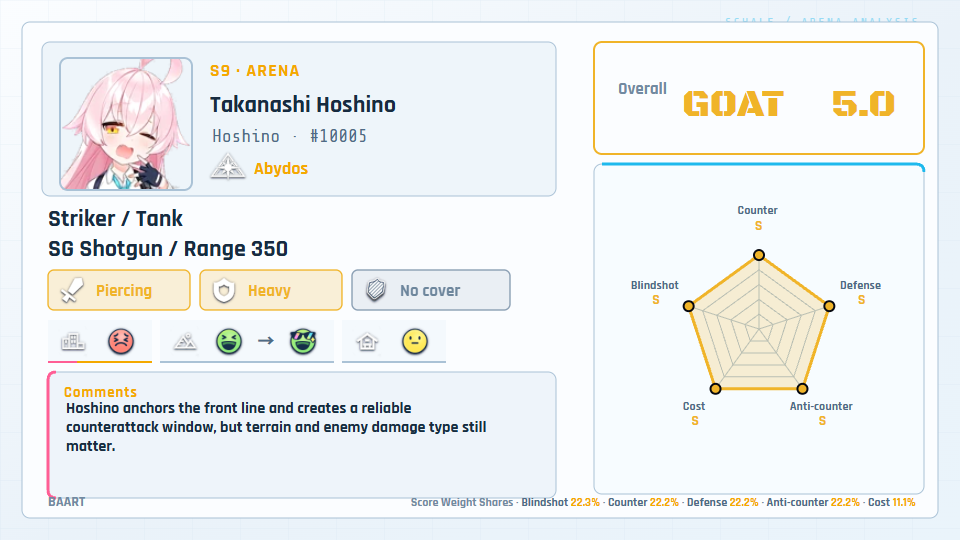
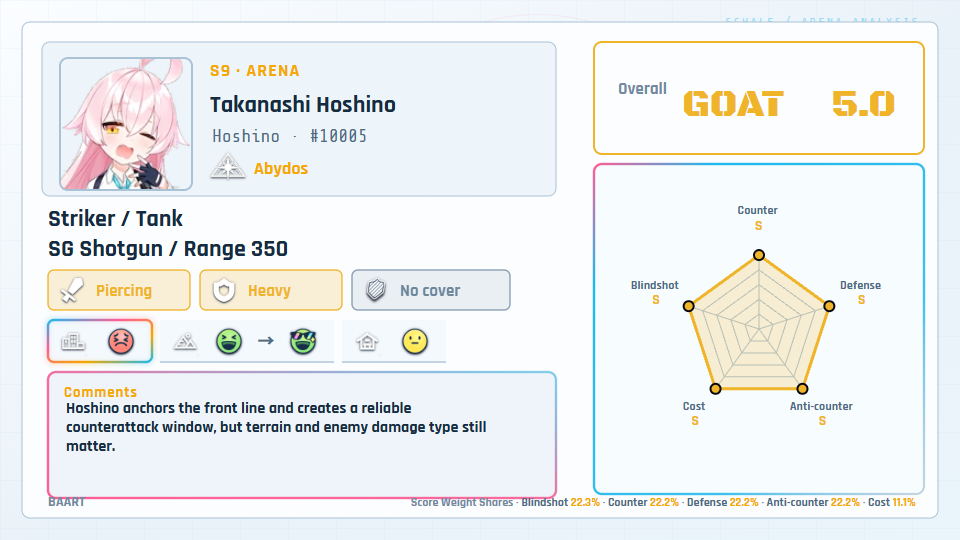
style: refine unified arena output visuals
Align the full static card to the canonical Remotion geometry, remove the static portrait veil, and share rounded cyan-pink panel accents and academy motifs across compact, full, and video outputs.

Add the deterministic active-terrain perimeter highlight, preserve flat inactive terrain facts, improve footnote safe-area placement, expand visual assertions, and regenerate bilingual README examples.

Verified with 63 tests, Vite build, Remotion composition discovery, MP4 and native PNG smoke renders, and bilingual light/dark comparison matrices.

Changed region(s): [[0.0312, 0.4444, 0.9062, 0.9185], [0.5938, 0.2963, 0.9688, 0.6519], [0.0625, 0.9185, 0.5625, 0.9481]]

diff --git a/src/export/cardSvg.js b/src/export/cardSvg.js
@@ -2,7 +2,7 @@ import { localeFor, t } from "../utils/i18n.js";
 import { createRadarRenderModel } from "../utils/radarRenderModel.js";
 import { fitStaticExportText } from "../utils/exportText.js";
 import { createStudentRatingPresentation } from "../utils/presentationModel.js";
-import { outputTheme } from "../utils/outputVisualTokens.js";
+import { outputTheme, scaleFullOutputLayout } from "../utils/outputVisualTokens.js";
 import { CARD_DIMENSIONS as CARD } from "./exportPipeline.js";
 
 function esc(value) {
@@ -43,8 +43,7 @@ function noteBlock(text, x, y, width, height, uiLanguage, p, options = {}) {
   return `
   <g>
     <clipPath id="${clipId}"><rect x="${x + paddingX}" y="${y + paddingTop - fit.fontSize}" width="${textWidth}" height="${textHeight + fit.fontSize}"/></clipPath>
-    <rect x="${x}" y="${y}" width="${width}" height="${height}" rx="8" fill="${p.card}" fill-opacity="${options.opacity || p.cardOpacity || "0.76"}" stroke="${p.stroke}"/>
-    <path d="M ${x + 8} ${y} Q ${x} ${y} ${x} ${y + 8} V ${y + height - 8} Q ${x} ${y + height} ${x + 8} ${y + height}" fill="none" stroke="${p.pink}" stroke-width="3"/>
+    ${accentPanelRect(x, y, width, height, p, { fill: p.card, opacity: options.opacity || p.cardOpacity || "0.76", accent: "pink" })}
     ${options.hideLabel ? "" : `<text x="${x + 16}" y="${labelY}" fill="${p.gold}" font-size="${options.labelSize || 17}" font-weight="900" letter-spacing=".06em">${esc(label)}</text>`}
     <text clip-path="url(#${clipId})" x="${x + paddingX}" y="${textY}" fill="${p.text}" font-size="${fit.fontSize}" font-weight="700">
       ${fit.lines.map((line, i) => `<tspan x="${x + paddingX}" dy="${i === 0 ? 0 : fit.lineGap}">${esc(line)}</tspan>`).join("")}
@@ -78,6 +77,13 @@ function schoolMetaSvg(presentation, x, y, p, options = {}) {
 
 function panelRect(x, y, width, height, p, options = {}) {
   return `<rect x="${x}" y="${y}" width="${width}" height="${height}" rx="${options.rx || 8}" fill="${options.fill || p.card}" fill-opacity="${options.opacity || p.cardOpacity || "0.76"}" stroke="${options.stroke || p.stroke}" ${options.strokeWidth ? `stroke-width="${options.strokeWidth}"` : ""}/>`;
+}
+
+function accentPanelRect(x, y, width, height, p, options = {}) {
+  const rx = options.rx || 8;
+  const gradient = options.accent === "pink" ? "edgePink" : "edgeCyan";
+  return `${panelRect(x, y, width, height, p, options)}
+    <rect x="${x}" y="${y}" width="${width}" height="${height}" rx="${rx}" fill="none" stroke="url(#${gradient})" stroke-width="${options.accentWidth || 2.4}"/>`;
 }
 
 function overallPanelSvg(presentation, x, y, width, height, p, options = {}) {
@@ -133,6 +139,23 @@ function defs(p) {
       <stop offset="0" stop-color="#172033"/>
       <stop offset="1" stop-color="#0b1020"/>
     </linearGradient>
+    <linearGradient id="edgeCyan" x1="0%" y1="0%" x2="100%" y2="100%">
+      <stop offset="0" stop-color="${p.pink}"/>
+      <stop offset="0.18" stop-color="${p.cyan}"/>
+      <stop offset="0.7" stop-color="${p.cyan}" stop-opacity="0.82"/>
+      <stop offset="1" stop-color="${p.stroke}" stop-opacity="0.32"/>
+    </linearGradient>
+    <linearGradient id="edgePink" x1="0%" y1="100%" x2="100%" y2="0%">
+      <stop offset="0" stop-color="${p.pink}"/>
+      <stop offset="0.48" stop-color="${p.pink}" stop-opacity="0.9"/>
+      <stop offset="1" stop-color="${p.cyan}" stop-opacity="0.42"/>
+    </linearGradient>
+    <linearGradient id="terrainSpectrum" x1="0%" y1="0%" x2="100%" y2="100%">
+      <stop offset="0" stop-color="${p.cyan}"/>
+      <stop offset="0.34" stop-color="${p.pink}"/>
+      <stop offset="0.68" stop-color="${p.gold}"/>
+      <stop offset="1" stop-color="${p.cyan}"/>
+    </linearGradient>
     <pattern id="academyGrid" width="48" height="48" patternUnits="userSpaceOnUse"><path d="M 48 0 L 0 0 0 48" fill="none" stroke="${p.grid}" stroke-width="1"/></pattern>
     <filter id="soft" x="-20%" y="-20%" width="140%" height="140%">
       <feDropShadow dx="0" dy="12" stdDeviation="14" flood-color="${p.shadow}" flood-opacity="0.22"/>
@@ -145,22 +168,26 @@ function defs(p) {
       <feDropShadow dx="0" dy="1" stdDeviation="0.8" flood-color="#ffffff" flood-opacity="0.72"/>
       <feDropShadow dx="0" dy="0" stdDeviation="1.3" flood-color="#7dd3fc" flood-opacity="0.32"/>
     </filter>
+    <filter id="edgeGlow" x="-30%" y="-40%" width="160%" height="180%">
+      <feGaussianBlur stdDeviation="2.4"/>
+    </filter>
   </defs>`;
 }
 
 function backgroundDecor(width, height, p) {
   const cx = width * 0.56;
-  const cy = height * 0.45;
-  const radius = height * 0.29;
+  const cy = height * 0.394;
+  const radius = height * 0.282;
   return `
   <rect width="${width}" height="${height}" fill="url(#academyGrid)" opacity="0.24"/>
   <g fill="none" stroke="${p.cyan}" opacity="0.13">
     <circle cx="${cx}" cy="${cy}" r="${radius}" stroke-width="2"/>
-    <circle cx="${cx}" cy="${cy}" r="${radius + height * 0.045}" stroke-width="1"/>
+    <circle cx="${cx}" cy="${cy}" r="${radius + height * 0.031}" stroke-width="1"/>
+    <circle cx="${cx}" cy="${cy}" r="${radius + height * 0.085}" stroke="${p.pink}" stroke-width="1" opacity="0.72"/>
     <line x1="${cx - radius - 30}" y1="${cy}" x2="${cx + radius + 30}" y2="${cy}"/>
     <line x1="${cx}" y1="${cy - radius - 30}" x2="${cx}" y2="${cy + radius + 30}"/>
   </g>
-  <path d="M ${width - 180} 24 H ${width - 40} V 78" fill="none" stroke="${p.cyan}" stroke-width="2" opacity="0.42"/>
+  <path d="M ${width - 180} 48 H ${width - 40} V 92" fill="none" stroke="${p.cyan}" stroke-width="2" opacity="0.42"/>
   <path d="M 26 ${height - 90} V ${height - 26} H 170" fill="none" stroke="${p.pink}" stroke-width="2" opacity="0.34"/>
   <text x="${width - 40}" y="26" text-anchor="end" fill="${p.cyan}" opacity="0.42" font-family="Share Tech Mono, monospace" font-size="12" letter-spacing="2">SCHALE / ARENA ANALYSIS</text>`;
 }
@@ -226,6 +253,7 @@ ${backgroundDecor(width, height, p)}
 function buildFullSVG(student, ratings, options) {
   const { width, height, radar } = CARD.full;
   const p = palette(options.theme);
+  const layout = scaleFullOutputLayout(width);
   const presentation = createStudentRatingPresentation({ student, ratings, language: options.uiLanguage, activeSeason: options.season });
   const portraitUrl = presentation.identity.portraitUrl;
   const displayName = presentation.identity.displayName;
@@ -240,24 +268,23 @@ ${commonStyles(p, options.fontCss)}
 <rect width="${width}" height="${height}" fill="url(#bg)"/>
 ${backgroundDecor(width, height, p)}
 <g class="ui">
-  <image href="${portraitUrl}" x="290" y="24" width="700" height="${height - 48}" preserveAspectRatio="xMidYMid meet" opacity="0.58"/>
+  <image href="${portraitUrl}" x="${layout.portrait.x}" y="${layout.portrait.top}" width="${layout.portrait.width}" height="${height - layout.portrait.top - layout.portrait.bottom}" preserveAspectRatio="xMidYMid meet" opacity="1"/>
 
-  <text x="48" y="58" fill="#f0b429" font-size="23" font-weight="900" letter-spacing=".07em">${esc(options.arenaSeason || "")} · ARENA GUIDE</text>
-  <text x="48" y="122" fill="${p.text}" font-size="${titleSize}" font-weight="900" xml:space="preserve">${esc(displayName)}</text>
-  <text x="50" y="160" class="sub mono">${esc(presentation.identity.developerName)} · #${presentation.identity.id}</text>
-  ${schoolMetaSvg(presentation, 48, 202, p, { fontSize: 34, iconSize: 58, maxChars: presentation.locale === "en" ? 18 : 12 })}
+  <text x="48" y="52" fill="${p.gold}" font-size="21" font-weight="900" letter-spacing=".07em">${esc(options.arenaSeason || "")} · ARENA GUIDE</text>
+  <text x="48" y="110" fill="${p.text}" font-size="${Math.min(titleSize, 54)}" font-weight="900" xml:space="preserve">${esc(displayName)}</text>
+  <text x="50" y="148" class="sub mono">${esc(presentation.identity.developerName)} · #${presentation.identity.id}</text>
+  ${schoolMetaSvg(presentation, 48, 184, p, { fontSize: 32, iconSize: 56, maxChars: presentation.locale === "en" ? 18 : 12 })}
 
-  ${panelRect(48, 228, 514, 144, p, { fill: p.card, opacity: "0.82" })}
-  <text x="66" y="265" class="value" font-size="30">${esc(trimText(presentation.role.summary, presentation.locale === "en" ? 34 : 28))}</text>
-  <text x="66" y="304" class="value" font-size="25">${esc(trimText(presentation.weapon.summary, presentation.locale === "en" ? 44 : 34))}</text>
-  ${typeChips(presentation, 66, 324, p, { width: 150, height: 42, fontSize: 18, iconSize: 26, gap: 10 })}
-  ${coverMark(presentation, 386, 324, p, { width: 158, height: 42, fontSize: 18, iconSize: 26 })}
-  ${terrainStrip(presentation, 48, 386, p, { compactWidth: 124, upgradeWidth: 170, height: 54, iconSize: 36, rankWidth: 56, rankHeight: 30, gap: 10 })}
-  ${noteBlock(presentation.notes, 48, 454, 522, 204, options.uiLanguage, p, { maxFont: 23, minFont: 11, hardMinFont: 8, paddingTop: 48, paddingBottom: 14, labelY: 486, textY: 510, labelSize: 20, opacity: "0.82" })}
+  <text x="50" y="228" class="value" font-size="30">${esc(trimText(presentation.role.summary, presentation.locale === "en" ? 34 : 28))}</text>
+  ${typeChips(presentation, 50, 246, p, { width: 142, height: 44, fontSize: 19, iconSize: 27, gap: 10 })}
+  ${coverMark(presentation, 354, 246, p, { width: 158, height: 44, fontSize: 19, iconSize: 27 })}
+  <text x="50" y="326" class="value" font-size="25">${esc(trimText(presentation.weapon.summary, presentation.locale === "en" ? 44 : 34))}</text>
+  ${terrainStrip(presentation, 50, 340, p, { compactWidth: 112, upgradeWidth: 164, height: 48, iconSize: 34, rankWidth: 52, rankHeight: 28, gap: 9 })}
+  ${noteBlock(presentation.notes, layout.comments.x, layout.comments.top, layout.comments.width, layout.comments.height, options.uiLanguage, p, { maxFont: 23, minFont: 11, hardMinFont: 8, paddingTop: 48, paddingBottom: 14, labelY: layout.comments.top + 32, textY: layout.comments.top + 56, labelSize: 20, opacity: "0.82" })}
 
-  ${overallPanelSvg(presentation, 600, 42, 620, 138, p, { titleWidth: 142, ratingSize: presentation.locale === "en" ? 60 : 82, scoreSize: presentation.locale === "en" ? 58 : 64, titleSize: 23, minRatingSize: 34, contentGap: 24 })}
-  ${buildRadarSVG(presentation, { x: 600, y: 194, size: radar, panelWidth: 620, panelHeight: 464, chartSize: 420, theme: options.theme, labelFontScale: 1.18 })}
-  ${weightSummarySvg(presentation, p, width - 40, height - 34, 15, { anchor: "end" })}
+  ${overallPanelSvg(presentation, layout.right.x, layout.right.overallTop, layout.right.width, layout.right.overallHeight, p, { titleWidth: 125, ratingSize: presentation.locale === "en" ? 54 : 75, scoreSize: presentation.locale === "en" ? 53 : 57, titleSize: 23, minRatingSize: 32, contentGap: 20 })}
+  ${buildRadarSVG(presentation, { x: layout.right.x, y: layout.right.radarTop, size: radar, panelWidth: layout.right.width, panelHeight: layout.right.radarHeight, chartSize: 427, theme: options.theme, labelFontScale: 1.18 })}
+  ${weightSummarySvg(presentation, p, width - 40, height - 40, 15, { anchor: "end" })}
   <text x="48" y="${height - 34}" class="watermark">BAART</text>
 </g>
 </svg>`;
@@ -322,9 +349,9 @@ function terrainStrip(presentation, x, y, p = palette(), options = {}) {
     const arrowX = rank1X + (rank2X - rank1X) / 2 + rankWidth / 2;
     cursor += width + gap;
     return `
-    <rect x="${tx}" y="${y}" width="${width}" height="${height}" fill="${p.card}" fill-opacity="0.42"/>
-    <line x1="${tx}" y1="${y + height}" x2="${tx + width}" y2="${y + height}" stroke="${active ? p.gold : p.stroke}" stroke-width="2"/>
-    ${active ? `<line x1="${tx}" y1="${y + height}" x2="${tx + Math.min(34, width * 0.28)}" y2="${y + height}" stroke="${p.pink}" stroke-width="2"/>` : ""}
+    <rect x="${tx}" y="${y}" width="${width}" height="${height}" rx="${active ? 6 : 0}" fill="${p.card}" fill-opacity="0.42" ${active ? `stroke="url(#terrainSpectrum)" stroke-width="2.4"` : ""}/>
+    ${active ? "" : `<line x1="${tx}" y1="${y + height}" x2="${tx + width}" y2="${y + height}" stroke="${p.stroke}" stroke-width="1.5"/>`}
+    ${active ? `<rect x="${tx - 1}" y="${y - 1}" width="${width + 2}" height="${height + 2}" rx="7" fill="none" stroke="url(#terrainSpectrum)" stroke-width="3" opacity="0.34" filter="url(#edgeGlow)"/>` : ""}
     <image href="${terrain.icon}" x="${terrainX}" y="${y + (height - iconSize) / 2}" width="${iconSize}" height="${iconSize}" ${p.iconFilter ? `filter="${p.iconFilter}"` : ""}/>
     <image href="${terrain.rankIcon}" x="${rank1X}" y="${y + (height - rankHeight) / 2}" height="${rankHeight}" width="${rankWidth}" ${p.iconFilter ? `filter="${p.iconFilter}"` : ""}/>
     ${hasUpgrade ? `<text x="${arrowX}" y="${y + height / 2 + 6}" text-anchor="middle" fill="${active ? "#f0b429" : p.sub}" font-size="17" font-weight="900">→</text><image href="${terrain.upgradedRankIcon}" x="${rank2X}" y="${y + (height - rankHeight) / 2}" height="${rankHeight}" width="${rankWidth}" ${p.iconFilter ? `filter="${p.iconFilter}"` : ""}/>` : ""}`;
@@ -384,8 +411,7 @@ function buildRadarSVG(presentation, options) {
 
   return `
   <g>
-    <rect x="${x}" y="${y}" width="${panelWidth}" height="${panelHeight}" rx="8" fill="${p.radarBg}" fill-opacity="${p.panelOpacity}" stroke="${p.stroke}"/>
-    <path d="M ${x + 8} ${y} H ${x + panelWidth - 8} Q ${x + panelWidth} ${y} ${x + panelWidth} ${y + 8}" fill="none" stroke="${p.cyan}" stroke-width="3"/>
+    ${accentPanelRect(x, y, panelWidth, panelHeight, p, { fill: p.radarBg, opacity: p.panelOpacity, accent: "cyan" })}
     ${rings}${axes}
     <polygon points="${polyStr}" fill="${fillColor}35" stroke="${fillColor}" stroke-width="3" stroke-linejoin="round"/>
     ${dataPoints.map(([px, py], i) => scores[i] > 0 ? `<circle cx="${px}" cy="${py}" r="5" fill="${dimensions[i].tierColor}" stroke="#06080f" stroke-width="2"/>` : "").join("")}

diff --git a/video/video.css b/video/video.css
@@ -6,6 +6,9 @@
 .video-scene__academy-mark { position: absolute; z-index: 0; left: 770px; top: 120px; width: 610px; height: 610px; border: 2px solid var(--output-cyan); border-radius: 50%; opacity: .12; box-shadow: 0 0 0 34px color-mix(in srgb, var(--output-cyan) 22%, transparent), 0 0 0 92px color-mix(in srgb, var(--output-pink) 13%, transparent); }
 .video-scene__academy-mark::before, .video-scene__academy-mark::after { content: ""; position: absolute; left: 50%; top: -58px; width: 2px; height: 726px; background: var(--output-cyan); opacity: .45; transform-origin: center; }
 .video-scene__academy-mark::after { transform: rotate(90deg); }
+.video-scene__corner { position: absolute; z-index: 1; width: 210px; height: 82px; pointer-events: none; opacity: .38; }
+.video-scene__corner--top { right: 40px; top: 48px; border-top: 2px solid var(--output-cyan); border-right: 2px solid var(--output-cyan); }
+.video-scene__corner--bottom { left: 26px; bottom: 26px; border-left: 2px solid var(--output-pink); border-bottom: 2px solid var(--output-pink); }
 .video-portrait { position: absolute; z-index: 0; left: 500px; top: 36px; bottom: 36px; width: 900px; display: flex; align-items: center; justify-content: center; overflow: visible; contain: layout paint; }
 .video-portrait img { width: auto; height: 100%; max-width: none; flex: none; object-fit: contain; object-position: center center; }
 .video-title { position: absolute; left: 72px; top: 48px; width: 830px; z-index: 2; }
@@ -30,21 +33,24 @@
 .video-weapon { margin-top: 20px; color: var(--text-secondary); font-size: 35px; font-weight: 700; }
 .video-terrain-strip { display: flex; gap: 10px; margin-top: 16px; }
 .video-terrain { position: relative; height: 62px; min-width: 128px; padding: 6px 12px; border: 0; border-bottom: 2px solid var(--output-stroke); border-radius: 0; background: color-mix(in srgb, var(--output-card) 48%, transparent); display: flex; align-items: center; gap: 8px; }
-.video-terrain.is-active { border-bottom-color: var(--output-gold); }
-.video-terrain.is-active::after { content: ""; position: absolute; left: 0; bottom: -2px; width: 34px; height: 2px; background: var(--output-pink); }
+.video-terrain.is-active { border: 1px solid transparent; border-radius: 8px; box-shadow: 0 0 16px color-mix(in srgb, var(--output-cyan) 26%, transparent), 0 0 9px color-mix(in srgb, var(--output-pink) 18%, transparent); }
+.video-terrain.is-active::before { content: ""; position: absolute; z-index: 3; inset: -2px; border-radius: 9px; padding: 2px; pointer-events: none; background: conic-gradient(from var(--terrain-edge-angle), var(--output-cyan), var(--output-pink), var(--output-gold), var(--output-cyan)); -webkit-mask: linear-gradient(#000 0 0) content-box, linear-gradient(#000 0 0); -webkit-mask-composite: xor; mask-composite: exclude; }
 .video-terrain img { width: 38px; height: 38px; object-fit: contain; }
 .video-terrain img.video-terrain__rank { width: 54px; height: 29px; }
 .video-terrain span { color: var(--accent-gold); font-size: 22px; }
-.video-comments { position: absolute; left: 74px; top: 626px; z-index: 2; width: 700px; height: 352px; padding: 20px 28px; border: 1px solid var(--output-stroke); border-left: 4px solid var(--output-pink); border-radius: 8px; background: color-mix(in srgb, var(--output-panel) 84%, transparent); }
+.video-comments { position: absolute; left: 74px; top: 626px; z-index: 2; width: 700px; height: 352px; padding: 20px 28px; border: 1px solid var(--output-stroke); border-radius: 8px; background: color-mix(in srgb, var(--output-panel) 84%, transparent); }
+.video-comments::before, .video-radar-panel::before { content: ""; position: absolute; z-index: 5; inset: -2px; border-radius: 9px; padding: 2px; pointer-events: none; -webkit-mask: linear-gradient(#000 0 0) content-box, linear-gradient(#000 0 0); -webkit-mask-composite: xor; mask-composite: exclude; }
+.video-comments::before { background: linear-gradient(30deg, var(--output-pink), color-mix(in srgb, var(--output-pink) 88%, transparent) 48%, color-mix(in srgb, var(--output-cyan) 42%, transparent)); }
 .video-comments__viewport { height: 260px; margin-top: 12px; overflow: hidden; mask-image: linear-gradient(to bottom, #000 0%, #000 88%, transparent 100%); }
 .video-comments__viewport--quality { padding-top: var(--comment-scroll-top-gap, 28px); box-sizing: border-box; mask-image: linear-gradient(to bottom, transparent 0%, #000 9%, #000 88%, transparent 100%); }
 .video-comments__viewport--no-mask, .video-scene--fast .video-comments__viewport { mask-image: none; }
 .video-comments__text { color: var(--text-primary); font-size: 45px; line-height: 58px; font-weight: 600; white-space: pre-wrap; }
-.video-radar-panel { position: absolute; z-index: 2; left: 900px; top: 278px; width: 830px; height: 752px; padding: 16px 24px 14px; display: flex; flex-direction: column; align-items: center; justify-content: center; border: 1px solid var(--output-stroke); border-top: 4px solid var(--output-cyan); border-radius: 8px; background: color-mix(in srgb, var(--output-panel) 84%, transparent); }
+.video-radar-panel { position: absolute; z-index: 2; left: 900px; top: 278px; width: 830px; height: 752px; padding: 16px 24px 14px; display: flex; flex-direction: column; align-items: center; justify-content: center; border: 1px solid var(--output-stroke); border-radius: 8px; background: color-mix(in srgb, var(--output-panel) 84%, transparent); }
+.video-radar-panel::before { background: linear-gradient(135deg, var(--output-pink), var(--output-cyan) 18%, var(--output-cyan) 70%, color-mix(in srgb, var(--output-stroke) 32%, transparent)); }
 .video-radar { position: relative; overflow: visible; }
 .video-radar > svg:not(.video-radar__ripples) { position: relative; z-index: 2; }
 .video-radar__ripples { position: absolute; inset: 0; z-index: 3; pointer-events: none; }
-.video-weights { position: absolute; z-index: 5; right: 72px; bottom: 38px; max-width: 1540px; display: flex; align-items: center; justify-content: flex-end; flex-wrap: nowrap; gap: 0 14px; color: var(--text-secondary); font-size: 22px; font-weight: 700; white-space: nowrap; }
+.video-weights { position: absolute; z-index: 5; right: 72px; bottom: 52px; max-width: 1540px; display: flex; align-items: center; justify-content: flex-end; flex-wrap: nowrap; gap: 0 14px; color: var(--text-secondary); font-size: 22px; font-weight: 700; white-space: nowrap; }
 .video-weights__label { color: var(--text-muted); text-transform: uppercase; }
 .video-weights strong { color: var(--accent-gold); }
 .video-overall { position: absolute; left: 900px; top: 48px; width: 830px; height: 214px; z-index: 4; border: 2px solid; border-radius: 8px; background: color-mix(in srgb, var(--output-panel) 78%, transparent); padding: 28px 34px; display: grid; grid-template-columns: 188px minmax(0, 1fr); align-items: center; column-gap: 30px; transform-origin: right center; }

diff --git a/test/video.test.js b/test/video.test.js
@@ -38,6 +38,7 @@ import { benchmarkOutputIo, classifyRenderBottleneck, selectBenchmarkConcurrency
 import { vt } from "../video/core/i18n.js";
 import { buildDimensionReportSvg, dimensionReportRows } from "../src/utils/dimensionReport.js";
 import { fitStaticExportText, wrapStaticExportText } from "../src/utils/exportText.js";
+import { FULL_OUTPUT_LAYOUT, scaleFullOutputLayout } from "../src/utils/outputVisualTokens.js";
 
 const fixture = JSON.parse(await readFile(new URL("./fixtures/video-project.json", import.meta.url), "utf8"));
 const records = fixture.records;
@@ -429,8 +430,13 @@ test("static export cards consume the shared presentation model and unified outp
   assert.match(source, /filter="\$\{p\.iconFilter\}"/);
   assert.match(source, /overallPanelSvg\(presentation, 594, 42/);
   assert.match(source, /panelWidth: 330, panelHeight: 330/);
-  assert.match(source, /panelWidth: 620, panelHeight: 464/);
+  assert.match(source, /scaleFullOutputLayout\(width\)/);
+  assert.match(source, /panelWidth: layout\.right\.width, panelHeight: layout\.right\.radarHeight/);
   assert.match(source, /backgroundDecor\(width, height, p\)/);
+  assert.match(source, /id="edgeCyan"/);
+  assert.match(source, /accent: "cyan"/);
+  assert.match(source, /url\(#terrainSpectrum\)/);
+  assert.doesNotMatch(source, /preserveAspectRatio="xMidYMid meet" opacity="0\.58"/);
   assert.match(facadeSource, /useCardExport\(buildExportSVG\)/);
   assert.match(facadeSource, /function ExportPreviewModal/);
   assert.match(exportHookSource, /setExportPreview\(\{/);
@@ -442,6 +448,27 @@ test("static export cards consume the shared presentation model and unified outp
   assert.match(source, /function buildFullSVG[\s\S]*typeChips\(presentation/);
   assert.doesNotMatch(source.match(/function buildFullSVG[\s\S]*?function coverMark/)?.[0] || "", /studentMetaRows|>\$\{esc\(k\)\}/);
   assert.doesNotMatch(source.match(/function buildFullSVG[\s\S]*?function coverMark/)?.[0] || "", /panelRect\(600, 198, 620, 450/);
+});
+
+test("full static output scales the canonical video geometry exactly", () => {
+  const layout = scaleFullOutputLayout(1280);
+  assert.equal(FULL_OUTPUT_LAYOUT.canvas.width, 1920);
+  assert.equal(layout.scale, 2 / 3);
+  assert.equal(layout.right.x, 600);
+  assert.ok(Math.abs(layout.right.width - 553.33) < 0.01);
+  assert.ok(Math.abs(layout.comments.x - 49.33) < 0.01);
+  assert.equal(layout.portrait.x, 333.33);
+});
+
+test("video output uses deterministic frame-driven terrain edges and matching decorations", async () => {
+  const [sceneSource, cssSource] = await Promise.all([
+    readFile(new URL("../video/remotion/StudentScene.jsx", import.meta.url), "utf8"),
+    readFile(new URL("../video/video.css", import.meta.url), "utf8"),
+  ]);
+  assert.match(sceneSource, /--terrain-edge-angle/);
+  assert.match(sceneSource, /video-scene__corner--top/);
+  assert.match(cssSource, /conic-gradient\(from var\(--terrain-edge-angle\)/);
+  assert.doesNotMatch(cssSource, /@keyframes/);
 });
 
 test("static export visual QA covers both card sizes, languages, themes, and meaningful comments", async () => {

diff --git a/src/utils/outputVisualTokens.js b/src/utils/outputVisualTokens.js
@@ -41,6 +41,48 @@ const OUTPUT_THEMES = Object.freeze({
   }),
 });
 
+export const FULL_OUTPUT_LAYOUT = Object.freeze({
+  canvas: Object.freeze({ width: 1920, height: 1080 }),
+  portrait: Object.freeze({ x: 500, top: 36, bottom: 36, width: 900 }),
+  right: Object.freeze({
+    x: 900,
+    width: 830,
+    overallTop: 48,
+    overallHeight: 214,
+    radarTop: 278,
+    radarHeight: 752,
+  }),
+  comments: Object.freeze({ x: 74, top: 626, width: 700, height: 352 }),
+});
+
+export function scaleFullOutputLayout(width) {
+  const scale = width / FULL_OUTPUT_LAYOUT.canvas.width;
+  const scaled = value => Math.round(value * scale * 100) / 100;
+  return {
+    scale,
+    portrait: {
+      x: scaled(FULL_OUTPUT_LAYOUT.portrait.x),
+      top: scaled(FULL_OUTPUT_LAYOUT.portrait.top),
+      bottom: scaled(FULL_OUTPUT_LAYOUT.portrait.bottom),
+      width: scaled(FULL_OUTPUT_LAYOUT.portrait.width),
+    },
+    right: {
+      x: scaled(FULL_OUTPUT_LAYOUT.right.x),
+      width: scaled(FULL_OUTPUT_LAYOUT.right.width),
+      overallTop: scaled(FULL_OUTPUT_LAYOUT.right.overallTop),
+      overallHeight: scaled(FULL_OUTPUT_LAYOUT.right.overallHeight),
+      radarTop: scaled(FULL_OUTPUT_LAYOUT.right.radarTop),
+      radarHeight: scaled(FULL_OUTPUT_LAYOUT.right.radarHeight),
+    },
+    comments: {
+      x: scaled(FULL_OUTPUT_LAYOUT.comments.x),
+      top: scaled(FULL_OUTPUT_LAYOUT.comments.top),
+      width: scaled(FULL_OUTPUT_LAYOUT.comments.width),
+      height: scaled(FULL_OUTPUT_LAYOUT.comments.height),
+    },
+  };
+}
+
 export function outputTheme(theme = "dark") {
   return OUTPUT_THEMES[theme] || OUTPUT_THEMES.dark;
 }
@@ -61,7 +103,6 @@ export function outputThemeCssVariables(theme = "dark") {
     "--output-canvas": tokens.bg,
     "--output-panel": tokens.panel,
     "--output-card": tokens.card,
-    "--output-stroke": tokens.stroke,
     "--output-stroke": tokens.stroke,
     "--output-text": tokens.text,
     "--output-sub": tokens.sub,

diff --git a/video/remotion/StudentScene.jsx b/video/remotion/StudentScene.jsx
@@ -42,6 +42,7 @@ export default function StudentScene({ record, settings }) {
   const overallSpring = spring({ frame: frame - timeline.overallStart, fps, config: { damping: 14, stiffness: 115, mass: 0.8 } });
   const infoEnterFrames = Math.max(1, Math.round(settings.infoEnterDuration * fps));
   const cardOpacity = sceneFadeOpacity(frame, timeline);
+  const terrainEdgeAngle = ((frame / Math.max(1, fps * 2.4)) * 360) % 360;
   const hasQualityCommentMask = !profile.disableCommentMask && qualityMode === "quality";
   const commentTopGap = hasQualityCommentMask ? COMMENT_SCROLL_TOP_GAP : 0;
   const commentBottomClearance = hasQualityCommentMask ? COMMENT_SCROLL_BOTTOM_CLEARANCE : 0;
@@ -72,9 +73,11 @@ export default function StudentScene({ record, settings }) {
   const commentMaskClass = hasQualityCommentMask ? "video-comments__viewport--quality" : "video-comments__viewport--no-mask";
 
   return (
-    <div className={`video-scene baart-theme ${fastRender ? "video-scene--fast" : ""}`} data-theme={settings.theme} style={{ opacity: cardOpacity, background: palette.bg, color: palette.text, ...outputThemeCssVariables(settings.theme) }}>
+    <div className={`video-scene baart-theme ${fastRender ? "video-scene--fast" : ""}`} data-theme={settings.theme} style={{ opacity: cardOpacity, background: palette.bg, color: palette.text, "--terrain-edge-angle": `${terrainEdgeAngle}deg`, ...outputThemeCssVariables(settings.theme) }}>
       {!profile.disableGrid ? <div className="video-scene__grid" /> : null}
       <div className="video-scene__academy-mark" />
+      <div className="video-scene__corner video-scene__corner--top" />
+      <div className="video-scene__corner video-scene__corner--bottom" />
       {!profile.disablePortrait ? <div className="video-portrait" style={{ opacity: settings.portraitOpacity }}>
         <AssetImg src={presentation.identity.portraitUrl} />
       </div> : null}
